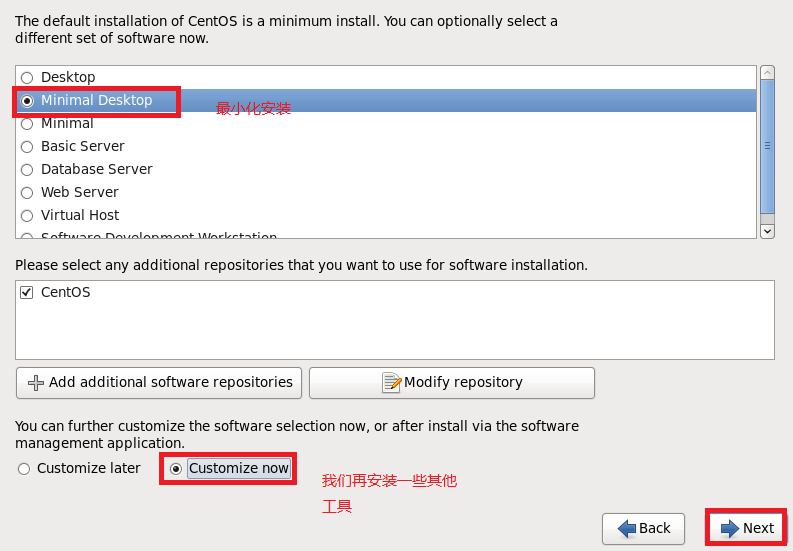
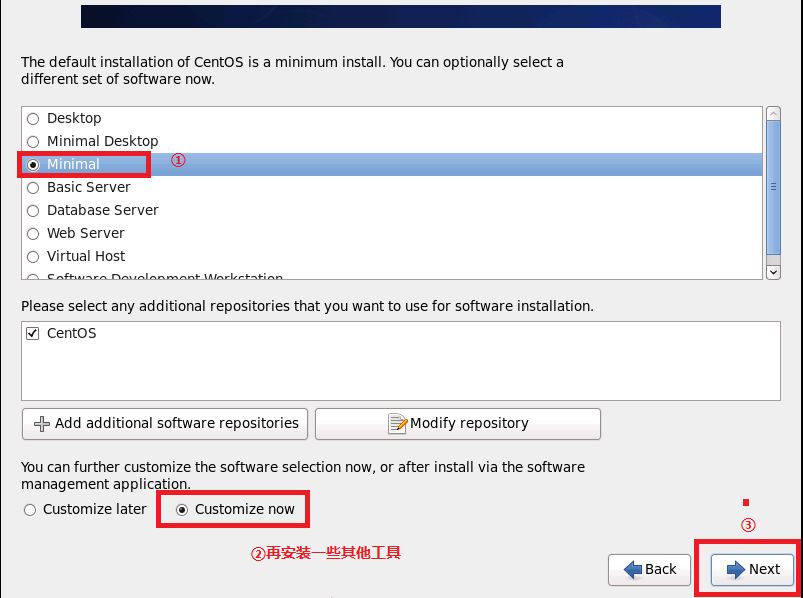
2019-01-08

Changed region(s): [[0.0, 0.0, 1.0, 1.0]]

diff --git a/Linux学习/相关设置和命令/Linux基础/00.Linux系统CentOS6.9安装.md b/Linux学习/相关设置和命令/Linux基础/00.Linux系统CentOS6.9安装.md
@@ -40,7 +40,7 @@
 点击Next<br>
 ![fail](img/0.17.PNG)<br>
 
-我们采用最小化安装(下图中有错误，应该选择Minimal)。<br>
+我们采用最小化安装。<br>
 ![fail](img/0.18.PNG)<br>
 
 我们再安装一些其他工具。<br>
@@ -49,3 +49,24 @@
 ![fail](img/0.20.PNG)<br>
 
 以上步骤完成，我们就可以点击Next安装系统了。<br>
+
+# CentOS6.9系统基本规划
+
+## 1.网络规划
+网络配置文件在``/etc/sysconfig/network-scripts/``下。<br>
+下面是网络配置文件的一个模板：<br>
+```
+DEVICE=eth0
+TYPE=Ethernet
+ONBOOT=yes
+NM_CONTROLLED=yes
+BOOTPROTO=none
+IPADDR=10.0.0.22
+NETMASK=255.255.255.0
+DNS1=223.5.5.5
+DNS2=223.6.6.6
+GATEWAY=10.0.0.254
+USERCTL=yes
+PEERDNS=yes
+IPV6INIT=no
+```
